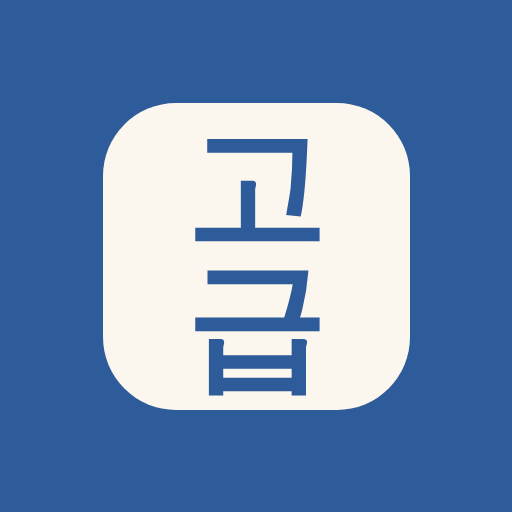
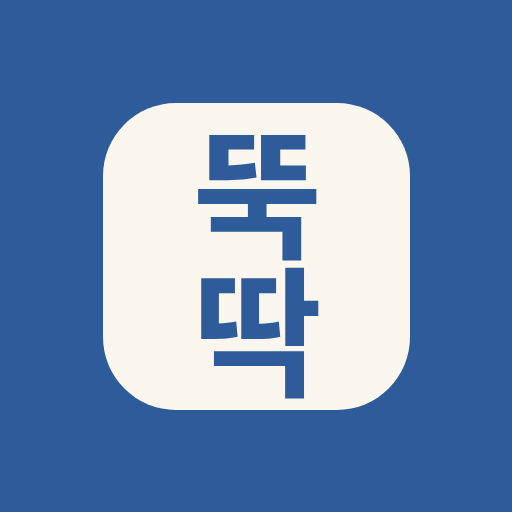
홈 화면 아이콘 글자를 세 반 모두 「뚝딱」으로 (사용자 결정)
- 초급(청록) 「한글」→「뚝딱」: tools/make_icons.py 새로 (그 전 색·여백 그대로)
- 중급(주황) 「중급」→「뚝딱」, 고급(남색) 「고급」→「뚝딱」: 각 도구의 글자만 바꿈
- 세 도구 모두 굵은 'Noto Sans CJK KR' 을 먼저 씀 (가는 글꼴로 그려지던 문제)
- tools/stamp_sw.py · go/tools/build_audio_bundle_go.py: 아이콘·manifest 도 캐시 지문에 넣음.
  sw.js 가 .png 를 캐시에서 먼저 꺼내 주므로, 이것 없이는 휴대폰이 옛 아이콘을 계속 씀
- sw.js · go/sw.js · go/index.html(판 번호): 지문 갱신
- docs/MIGRATION.md: 아이콘 만드는 법

Claude-Session: https://claude.ai/code/session_013x1stDSsXAtxzUfDLoW7H1

Changed region(s): [[0.375, 0.25, 0.625, 0.7812]]

diff --git a/go/sw.js b/go/sw.js
@@ -1,5 +1,5 @@
 /* 한글뚝딱(고급) — 오프라인 서비스 워커
-   빌드 때 80acce4c7b 이 실제 값으로 바뀝니다(go/tools/build_audio_bundle_go.py).
+   빌드 때 0299b54ebe 이 실제 값으로 바뀝니다(go/tools/build_audio_bundle_go.py).
 
    - 이 워커가 맡는 범위는 /go/ 안쪽뿐입니다(파일이 /go/sw.js 에 있어 저절로 그렇게 됩니다).
      기초반(/)은 뿌리의 sw.js 가 따로 맡습니다.
@@ -17,7 +17,7 @@
 'use strict';
 
 var PREFIX = 'hangul3-';
-var SHELL = 'hangul3-shell-80acce4c7b';
+var SHELL = 'hangul3-shell-0299b54ebe';
 var AUDIO = 'hangul3-audio';                 // 판이 바뀌어도 그대로 둔다
 var KEEP = [SHELL, AUDIO];
 

diff --git a/sw.js b/sw.js
@@ -1,5 +1,5 @@
 /* 한글뚝딱(초급) — 오프라인 서비스 워커
-   빌드 때 040df700f9 이 실제 값으로 바뀝니다.
+   빌드 때 9bfee8c2bc 이 실제 값으로 바뀝니다.
 
    - 화면(index.html 등)은 인터넷이 되면 새것을 먼저 받고, 안 되면 저장해 둔 것을 씁니다.
    - 소리는 audio/audio.bin 한 덩어리로 저장합니다. 한 번 저장하면 그대로 씁니다.
@@ -11,7 +11,7 @@
 'use strict';
 
 var PREFIX = 'hangul-';
-var SHELL = 'hangul-shell-040df700f9';
+var SHELL = 'hangul-shell-9bfee8c2bc';
 var AUDIO = 'hangul-audio';                 // 판이 바뀌어도 그대로 둔다
 var KEEP = [SHELL, AUDIO];
 

diff --git a/go/index.html b/go/index.html
@@ -1270,7 +1270,7 @@ if ('speechSynthesis' in window) {
    화면 내용이 조금이라도 바뀌면 APP_BUILD 가 달라지므로, 휴대폰에 보이는 값과
    견주어 보면 새 화면을 받았는지 바로 알 수 있습니다. */
 const APP_VERSION = '1.3';
-const APP_BUILD = '80acce';
+const APP_BUILD = '0299b5';
 const APP_DATE = '2026-11-07';
 window.APP_VERSION = APP_VERSION;
 document.addEventListener('DOMContentLoaded', function () {

diff --git a/tools/make_icons.py b/tools/make_icons.py
@@ -1,0 +1,105 @@
+# make_icons.py — 한글뚝딱(초급) 홈 화면 아이콘을 만든다.
+#
+#   python tools/make_icons.py
+#
+# 만드는 것 (모두 저장소 맨 위에)
+#   icon-180.png           아이폰 홈 화면 (index.html 의 apple-touch-icon)
+#   icon-192.png           안드로이드
+#   icon-512.png           설치용 큰 그림
+#   icon-512-maskable.png  안드로이드가 동그랗게 잘라 쓰는 그림(가장자리 여백 넉넉히)
+#
+# 2026-11-07 사용자(진민주님) 결정으로 글자를 「한글」 → 「뚝딱」. 색·여백은 그 전 아이콘 그대로.
+#   한글뚝딱(초급) = 청록 바탕에 「뚝딱」   ← 이 파일
+#   한글뚝딱(중급) = 주황 바탕에 「중급」   (tools/dictation/make_icons_jung.py)
+#   한글뚝딱(고급) = 남색 바탕에 「고급」   (go/tools/make_icons_go.py)
+#
+# 글꼴: 굵은 한글 글꼴이 있어야 획이 또렷합니다. 'Noto Sans CJK KR'(리눅스: fonts-noto-cjk),
+# 'Noto Sans KR', 윈도우 '맑은 고딕' 순서로 찾습니다. 크로미움(또는 크롬)으로 그립니다.
+# 아이콘을 바꾼 뒤에는 python tools/stamp_sw.py — 지문이 바뀌어야 휴대폰이 새 그림을 받습니다.
+
+import glob
+import os
+import shutil
+import subprocess
+import sys
+import tempfile
+
+try:
+    sys.stdout.reconfigure(encoding="utf-8", errors="replace")
+except Exception:
+    pass
+
+ROOT = os.path.dirname(os.path.dirname(os.path.abspath(__file__)))
+
+TEAL = "#14646E"     # 바탕색 (화면의 --accent 와 같음)
+CREAM = "#FBF7EF"    # 안쪽 네모 색 (화면의 --bg 와 같음)
+TEXT = ["뚝", "딱"]   # 위아래로 한 글자씩
+
+TPL = """<!doctype html><html><head><meta charset="utf-8"><style>
+  html, body {{ margin: 0; padding: 0; }}
+  body {{ width: {size}px; height: {size}px; background: {teal};
+          display: flex; align-items: center; justify-content: center; }}
+  .box {{ width: {inner}px; height: {inner}px; background: {cream};
+          border-radius: {round}px; display: flex; flex-direction: column;
+          align-items: center; justify-content: center; }}
+  .box span {{ font-family: 'Noto Sans CJK KR', 'Noto Sans KR', 'Malgun Gothic', 'Apple SD Gothic Neo', sans-serif;
+               font-weight: 700; color: {teal}; font-size: {font}px;
+               line-height: 1.0; letter-spacing: -0.02em; }}
+</style></head><body>
+  <div class="box">{spans}</div>
+</body></html>
+"""
+
+
+def find_chrome():
+    cands = [
+        r"C:\Program Files\Google\Chrome\Application\chrome.exe",
+        r"C:\Program Files (x86)\Google\Chrome\Application\chrome.exe",
+        "/Applications/Google Chrome.app/Contents/MacOS/Google Chrome",
+        shutil.which("google-chrome"),
+        shutil.which("chromium"),
+        shutil.which("chromium-browser"),
+    ]
+    cands += sorted(glob.glob("/opt/pw-browsers/chromium-*/chrome-linux*/chrome"))
+    for c in cands:
+        if c and os.path.exists(c):
+            return c
+    return None
+
+
+def render(chrome, tmp, name, size, pad_ratio):
+    inner = int(size * (1 - pad_ratio * 2))
+    spans = "".join(f"<span>{t}</span>" for t in TEXT)
+    html = TPL.format(size=size, inner=inner, teal=TEAL, cream=CREAM, spans=spans,
+                      round=int(inner * 0.24), font=int(inner * 0.40))
+    page = os.path.join(tmp, name + ".html")
+    with open(page, "w", encoding="utf-8") as f:
+        f.write(html)
+    shot = os.path.join(tmp, name + ".png")
+    subprocess.run([chrome, "--headless", "--disable-gpu", "--no-sandbox",
+                    "--hide-scrollbars", "--default-background-color=00000000",
+                    f"--screenshot={shot}", f"--window-size={size},{size}",
+                    "file:///" + page.replace("\\", "/")],
+                   check=True, capture_output=True, timeout=120)
+    out = os.path.join(ROOT, name + ".png")
+    shutil.copy(shot, out)
+    print(f"{name}.png  {size}x{size}  {os.path.getsize(out):,} 바이트")
+
+
+def main():
+    chrome = find_chrome()
+    if not chrome:
+        sys.exit("크로미움(또는 크롬)을 찾지 못했습니다. 아이콘을 만들 수 없습니다.")
+    tmp = tempfile.mkdtemp()
+    try:
+        render(chrome, tmp, "icon-180", 180, 0.14)
+        render(chrome, tmp, "icon-192", 192, 0.14)
+        render(chrome, tmp, "icon-512", 512, 0.14)
+        render(chrome, tmp, "icon-512-maskable", 512, 0.22)   # 잘려도 글씨가 남도록
+    finally:
+        shutil.rmtree(tmp, ignore_errors=True)
+    print("이어서:  python tools/stamp_sw.py")
+
+
+if __name__ == "__main__":
+    main()

diff --git a/tools/dictation/make_icons_jung.py b/tools/dictation/make_icons_jung.py
@@ -9,9 +9,9 @@
 #   icon-jung-512-maskable.png 안드로이드가 동그랗게 잘라 쓰는 그림(가장자리 여백 넉넉히)
 #
 # 왜 따로 만드나: 홈 화면에 세 아이콘이 나란히 놓이므로 한눈에 구별되어야 합니다.
-#   한글뚝딱(초급) = 청록 바탕에 「한글」
-#   한글뚝딱(중급) = 주황 바탕에 「중급」   ← 이 파일
-#   한글뚝딱(고급) = 남색 바탕에 「고급」
+#   한글뚝딱(초급) = 청록 바탕에 「뚝딱」
+#   한글뚝딱(중급) = 주황 바탕에 「뚝딱」   ← 이 파일 (2026-11-07 「중급」→「뚝딱」, 사용자 결정)
+#   한글뚝딱(고급) = 남색 바탕에 「뚝딱」
 #
 # 초급과 중급은 화면 강조색이 같은 청록이라, 아이콘까지 청록으로 하면 어르신이
 # 구별하지 못하십니다. 그래서 중급은 앱 안에서 쓰는 주황(--warm)을 바탕으로 씁니다.
@@ -44,11 +44,11 @@ TPL = """<!doctype html><html><head><meta charset="utf-8"><style>
   .box {{ width: {inner}px; height: {inner}px; background: {cream};
           border-radius: {round}px; display: flex; flex-direction: column;
           align-items: center; justify-content: center; }}
-  .box span {{ font-family: 'Noto Sans KR', 'Malgun Gothic', 'WenQuanYi Zen Hei', sans-serif;
+  .box span {{ font-family: 'Noto Sans CJK KR', 'Noto Sans KR', 'Malgun Gothic', 'WenQuanYi Zen Hei', sans-serif;
                font-weight: 800; color: {warm}; font-size: {font}px;
                line-height: 0.98; letter-spacing: -0.02em; }}
 </style></head><body>
-  <div class="box"><span>중</span><span>급</span></div>
+  <div class="box"><span>뚝</span><span>딱</span></div>
 </body></html>
 """
 

diff --git a/go/tools/make_icons_go.py b/go/tools/make_icons_go.py
@@ -9,7 +9,7 @@
 #   go/icon-512-maskable.png 안드로이드가 동그랗게 잘라 쓰는 그림(가장자리 여백 넉넉히)
 #
 # 왜 따로 만드나: 기초반 아이콘과 나란히 놓이므로 한눈에 구별되어야 합니다.
-#   기초반 = 청록 바탕에 「한글」  ·  한글뚝딱(고급) = 남색 바탕에 「고급」
+#   기초반 = 청록 바탕에 「뚝딱」  ·  한글뚝딱(고급) = 남색 바탕에 「뚝딱」
 #
 # 글꼴은 크로미움이 가진 것을 씁니다(안내문 만들 때와 같은 방법).
 
@@ -39,11 +39,11 @@ TPL = """<!doctype html><html><head><meta charset="utf-8"><style>
   .box {{ width: {inner}px; height: {inner}px; background: {cream};
           border-radius: {round}px; display: flex; flex-direction: column;
           align-items: center; justify-content: center; }}
-  .box span {{ font-family: 'Noto Sans KR', 'Malgun Gothic', 'WenQuanYi Zen Hei', sans-serif;
+  .box span {{ font-family: 'Noto Sans CJK KR', 'Noto Sans KR', 'Malgun Gothic', 'WenQuanYi Zen Hei', sans-serif;
                font-weight: 800; color: {navy}; font-size: {font}px;
                line-height: 0.98; letter-spacing: -0.02em; }}
 </style></head><body>
-  <div class="box"><span>고</span><span>급</span></div>
+  <div class="box"><span>뚝</span><span>딱</span></div>
 </body></html>
 """
 

diff --git a/go/tools/build_audio_bundle_go.py b/go/tools/build_audio_bundle_go.py
@@ -20,6 +20,7 @@
 #   3) 잘라낸 조각이 원본과 바이트 단위로 같은지 전수 확인
 
 import datetime
+import glob
 import hashlib
 import json
 import os
@@ -127,7 +128,14 @@ def stamp_sw():
     html = open(IDX, encoding="utf-8").read()
     flat = re.sub(r"const APP_BUILD = '[^']*';", "const APP_BUILD = '';", html)
     flat = re.sub(r"const APP_DATE = '[^']*';", "const APP_DATE = '';", flat)
-    digest = hashlib.md5(flat.encode("utf-8")).hexdigest()[:10]
+    # 홈 화면 아이콘·manifest 도 지문에 넣는다. go/sw.js 가 .png·.webmanifest 를 캐시에서 먼저
+    # 꺼내 주므로, 이것만 바뀐 날에도 판 번호가 바뀌어야 새 아이콘이 나간다 (2026-11-07 아이콘 「뚝딱」).
+    md = hashlib.md5(flat.encode("utf-8"))
+    for p in sorted(glob.glob(os.path.join(os.path.dirname(IDX), "icon*.png")) +
+                    glob.glob(os.path.join(os.path.dirname(IDX), "*.webmanifest"))):
+        md.update(os.path.basename(p).encode("utf-8"))
+        md.update(open(p, "rb").read())
+    digest = md.hexdigest()[:10]
 
     # 첫 화면 맨 아래에 보일 값
     today = datetime.date.today().isoformat()

diff --git a/tools/stamp_sw.py b/tools/stamp_sw.py
@@ -20,6 +20,11 @@ SW = os.path.join(HERE, "sw.js")
 
 # 지문에 넣을 화면들. 중급반만 고친 날에도 캐시 이름이 바뀌어야 하므로 함께 넣는다.
 SCREENS = ["index.html", "jung.html", "gyeopbatchim.html"]
+# 홈 화면 아이콘·manifest 도 넣는다. sw.js 가 .png·.webmanifest 를 캐시에서 먼저 꺼내 주므로,
+# 이것만 바뀐 날에도 캐시 이름이 바뀌어야 휴대폰이 새 아이콘을 받는다 (2026-11-07 아이콘 「뚝딱」).
+import glob as _glob
+SCREENS += sorted(os.path.basename(p) for p in
+                  _glob.glob(os.path.join(HERE, "icon*.png")) + _glob.glob(os.path.join(HERE, "manifest*.webmanifest")))
 
 h = hashlib.sha256()
 for name in SCREENS:
@@ -38,4 +43,4 @@ new = re.sub(r"빌드 때 [0-9a-f]{10} 이", f"빌드 때 {digest} 이", new)
 
 open(SW, "w", encoding="utf-8", newline="").write(new)
 print(f"sw.js 화면 캐시 이름: hangul-shell-{digest} ({n}곳)")
-print("지문에 넣은 화면: " + ", ".join(SCREENS))
+print("지문에 넣은 화면: " + ", ".join(SCREENS[:3]) + f" + 아이콘·manifest {len(SCREENS) - 3}개")

diff --git a/docs/MIGRATION.md b/docs/MIGRATION.md
@@ -102,6 +102,11 @@ cd $HOME\projects\hangul; git fetch; git switch main-ta7yke; git pull; python to
 첫 화면 맨 아래 판 번호 줄, 아이폰 홈 화면 이름(`apple-mobile-web-app-title`), `manifest.webmanifest`
 의 `name`·`short_name`. 좁은 화면(320px)에서 제목·「🏠 처음으로」가 낱말 중간에서 끊기지 않게 함.
 첫 화면 인사 글(`UI_SAY.ui_greet`)도 「한글뚝딱입니다」로 고쳤고, **녹음은 위 한 줄에서** 바뀝니다.
+홈 화면 아이콘 글자도 2026-11-07 「한글」→「뚝딱」(초급 청록 · 중급 주황 · 고급 남색, 세 반 모두 「뚝딱」).
+초급은 `tools/make_icons.py`, 중급은 `tools/dictation/make_icons_jung.py`, 고급은 `go/tools/make_icons_go.py`.
+굵은 한글 글꼴이 필요합니다(리눅스 `fonts-noto-cjk`, 윈도우 맑은 고딕). 아이콘·manifest 도 캐시 지문에
+들어가므로(`stamp_sw.py`, 고급은 `build_audio_bundle_go.py` 의 `stamp_sw`) 바꾼 뒤 지문만 다시 찍으면 됩니다.
+이미 홈 화면에 담은 휴대폰은 아이콘이 바로 안 바뀔 수 있어, 지우고 다시 담아야 할 수 있습니다.
 
 옛 이름이 남은 곳(일부러 둠): 이 문서·`CLAUDE.md`·`README.md` 본문, `sw.js` 맨 위 설명 글.
 운영 주소 `urihangul.vercel.app` 은 그대로 둡니다(2026-11-05 사용자 결정, 바꾸면 QR 안내문을 다시 만들어야 함, 8절).
